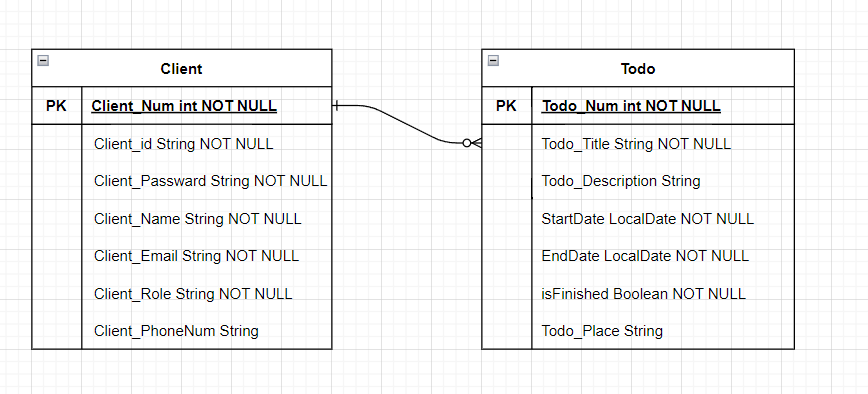
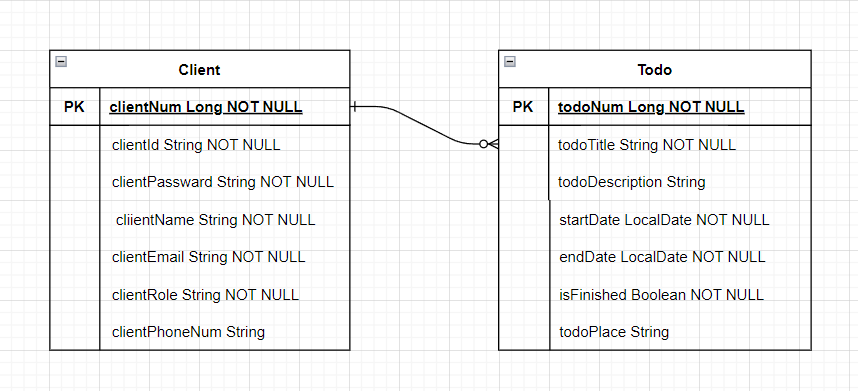
[Feat] 생성시간 표기 추가, ERD 수정 #27

diff --git a/contents/todoListAPI/ja/TodoProject/src/main/java/com/example/TodoProject/entity/Todo.java b/contents/todoListAPI/ja/TodoProject/src/main/java/com/example/TodoProject/entity/Todo.java
@@ -1,6 +1,7 @@
-package com.example.TodoProject.Entity;
+package com.example.TodoProject.entity;
 
 
+import com.example.TodoProject.common.Time;
 import jakarta.persistence.*;
 import lombok.AccessLevel;
 import lombok.Builder;
@@ -13,15 +14,15 @@ import java.time.LocalDate;
 @Entity
 @Getter
 @NoArgsConstructor(access = AccessLevel.PROTECTED)
-public class Todo {
+public class Todo extends Time {
     @Id
     @GeneratedValue(strategy = GenerationType.IDENTITY)
-    private Long todo_Num;
+    private Long todoNum;
 
-    private String todo_Title;
+    private String todoTitle;
 
     @Column(nullable = false)
-    private String todo_Description;
+    private String todoDescription;
 
     private LocalDate StartDate;
 
@@ -30,22 +31,20 @@ public class Todo {
     private Boolean isFinished;
 
     @Column(nullable = false)
-    private String todo_Place;
+    private String todoPlace;
 
     @ManyToOne(fetch = FetchType.LAZY)
     @JoinColumn(name = "client_Num")
     private Client client;
 
     @Builder
-    public Todo(Long todo_Num,String todo_Title, String todo_Description,LocalDate StartDate, LocalDate EndDate, Boolean isFinished, String todo_Place){
-        this.todo_Num = todo_Num;
-        this.todo_Title = todo_Title;
-        this.todo_Description = todo_Description;
+    public Todo(Long todoNum,String todoTitle, String todoDescription,LocalDate StartDate, LocalDate EndDate, Boolean isFinished, String todoPlace){
+        this.todoNum = todoNum;
+        this.todoTitle = todoTitle;
+        this.todoDescription = todoDescription;
         this.StartDate = StartDate;
         this.EndDate = EndDate;
         this.isFinished =isFinished;
-        this.todo_Place = todo_Place;
+        this.todoPlace = todoPlace;
     }
-
-
 }

diff --git a/contents/todoListAPI/ja/TodoProject/src/main/java/com/example/TodoProject/entity/Client.java b/contents/todoListAPI/ja/TodoProject/src/main/java/com/example/TodoProject/entity/Client.java
@@ -1,0 +1,50 @@
+package com.example.TodoProject.entity;
+
+import com.example.TodoProject.common.Time;
+import jakarta.persistence.*;
+import lombok.AccessLevel;
+import lombok.Builder;
+import lombok.Getter;
+import lombok.NoArgsConstructor;
+
+import java.util.ArrayList;
+import java.util.List;
+
+@Table(name = "Client_tb")
+@Entity
+@Getter
+@NoArgsConstructor(access = AccessLevel.PROTECTED)
+public class Client extends Time {
+
+    @Id
+    @GeneratedValue(strategy = GenerationType.IDENTITY)
+    private Long clientNum;
+
+    private String clientId;
+
+    private String clientPassword;
+
+    private String clientName;
+
+    private String clientEmail;
+
+    private String clientRole;
+
+    @Column(nullable = false)
+    private String clientPhoneNum;
+
+    @Builder.Default
+    @OneToMany(mappedBy = "client", cascade = CascadeType.ALL)
+    private List<Todo> todoList = new ArrayList<>();
+
+    @Builder
+    public Client(Long clientNum, String clientId, String clientPassword, String clientName, String clientEmail, String clientRole,String clientPhoneNum){
+      this.clientNum = clientNum;
+      this.clientId = clientId;
+      this.clientPassword = clientPassword;
+      this.clientName = clientName;
+      this.clientEmail = clientEmail;
+      this.clientRole = clientRole;
+      this.clientPhoneNum=clientPhoneNum;
+    }
+}

diff --git a/contents/todoListAPI/ja/TodoProject/src/main/java/com/example/TodoProject/common/Time.java b/contents/todoListAPI/ja/TodoProject/src/main/java/com/example/TodoProject/common/Time.java
@@ -1,0 +1,21 @@
+package com.example.TodoProject.common;
+
+import jakarta.persistence.EntityListeners;
+import jakarta.persistence.MappedSuperclass;
+import lombok.Getter;
+import org.springframework.data.annotation.CreatedDate;
+import org.springframework.data.annotation.LastModifiedDate;
+import org.springframework.data.jpa.domain.support.AuditingEntityListener;
+
+import java.time.LocalDateTime;
+
+@EntityListeners(AuditingEntityListener.class)
+@MappedSuperclass
+@Getter
+public class Time {
+    @CreatedDate
+    private LocalDateTime createdAtDate;
+
+    @LastModifiedDate
+    private LocalDateTime modifiedAtDate;
+}

diff --git a/contents/todoListAPI/ja/TodoProject/src/main/java/com/example/TodoProject/repository/ClientRepository.java b/contents/todoListAPI/ja/TodoProject/src/main/java/com/example/TodoProject/repository/ClientRepository.java
@@ -1,6 +1,6 @@
 package com.example.TodoProject.repository;
 
-import com.example.TodoProject.Entity.Client;
+import com.example.TodoProject.entity.Client;
 import org.springframework.data.jpa.repository.JpaRepository;
 
 public interface ClientRepository extends JpaRepository<Client, Long> {

diff --git a/contents/todoListAPI/ja/TodoProject/src/main/java/com/example/TodoProject/repository/TodoRepository.java b/contents/todoListAPI/ja/TodoProject/src/main/java/com/example/TodoProject/repository/TodoRepository.java
@@ -1,6 +1,6 @@
 package com.example.TodoProject.repository;
 
-import com.example.TodoProject.Entity.Todo;
+import com.example.TodoProject.entity.Todo;
 import org.springframework.data.jpa.repository.JpaRepository;
 
 public interface TodoRepository extends JpaRepository<Todo, Long> {
